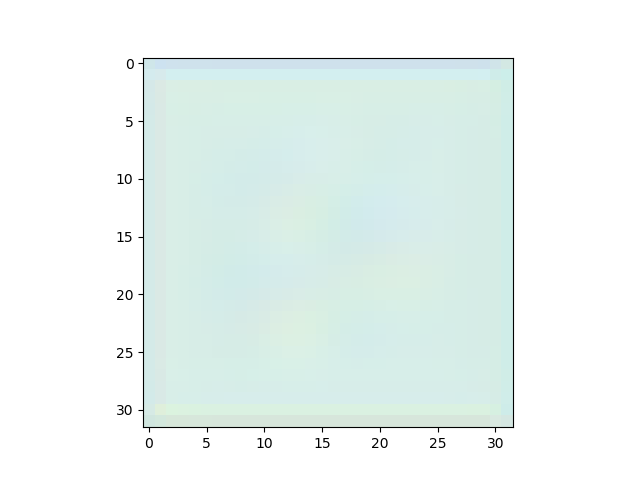
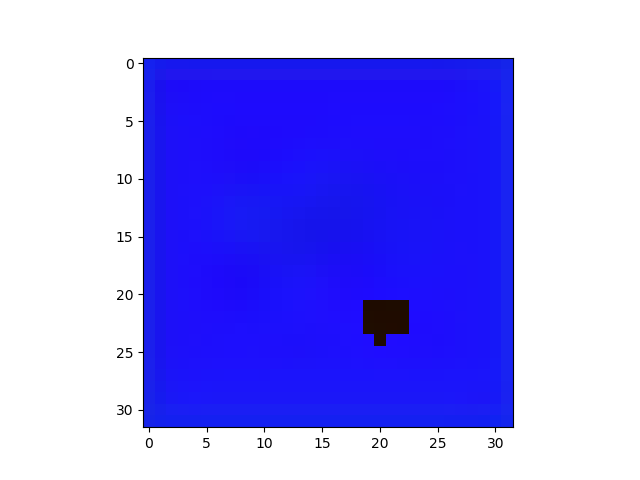
Starting to learn some 3-color blotches. Still very unstable

diff --git a/problem3/gan.py b/problem3/gan.py
@@ -19,17 +19,17 @@ class Discriminator(nn.Module):
     def __init__(self):
         super(Discriminator, self).__init__()
         # Several-layer MLP for now
-        self.fc1 = nn.Linear(3072, 128)
-        self.fc2 = nn.Linear(128, 32)
-        self.fc3 = nn.Linear(32, 16)
-        self.fc4 = nn.Linear(16, 1)
+        self.fc1 = nn.Linear(3072, 3)
+        #self.fc2 = nn.Linear(128, 32)
+        #self.fc3 = nn.Linear(32, 16)
+        self.fc4 = nn.Linear(3, 1)
         self.relu = nn.ReLU()
         self.sigmoid = nn.Sigmoid()
 
-        torch.nn.init.xavier_uniform_(self.fc1.weight)
-        torch.nn.init.xavier_uniform_(self.fc2.weight)
-        torch.nn.init.xavier_uniform_(self.fc3.weight)
-        torch.nn.init.xavier_uniform_(self.fc4.weight)
+        #torch.nn.init.xavier_uniform_(self.fc1.weight)
+        #torch.nn.init.xavier_uniform_(self.fc2.weight)
+        #torch.nn.init.xavier_uniform_(self.fc3.weight)
+        #torch.nn.init.xavier_uniform_(self.fc4.weight)
 
     def forward(self, inp):
         # Save for gradient penalty
@@ -39,10 +39,10 @@ class Discriminator(nn.Module):
         # Forward prop
         out = self.fc1(self.d_inp)
         out = self.relu(out)
-        out = self.fc2(out)
-        out = self.relu(out)
-        out = self.fc3(out)
-        out = self.relu(out)
+        #out = self.fc2(out)
+        #out = self.relu(out)
+        #out = self.fc3(out)
+        #out = self.relu(out)
         out = self.fc4(out)
         #out = self.sigmoid(out)
         return out
@@ -150,12 +150,12 @@ class GAN():
     def get_noise(self, batch_size):
         return Variable(torch.randn(batch_size, 100, device=self.device))
 
-    def train(self, train_loader, valid_loader, loss_fn=None, num_epochs=10, d_update=1):
+    def train(self, train_loader, valid_loader, loss_fn=None, num_epochs=30, d_update=3):
         '''
         Wrapper function for training on training set + evaluation on validation set.
         '''
-        d_optimizer = torch.optim.SGD(self.model.discriminator.parameters(), lr=1e-3)
-        g_optimizer = torch.optim.SGD(self.model.generator.parameters(), lr=1e-3)
+        d_optimizer = torch.optim.SGD(self.model.discriminator.parameters(), lr=1e-5)
+        g_optimizer = torch.optim.SGD(self.model.generator.parameters(), lr=1e-5)
 
         for epoch in range(num_epochs):
             d_train_loss, g_train_loss = self.train_epoch(train_loader,
@@ -259,7 +259,7 @@ class GAN():
         t = random.uniform(0, 1)
         x_hat = (t * fake) + ((1 - t) * real)
         d_x_hat = self.model.discriminator(x_hat)
-        print('d_x_hat:', d_x_hat)
+        #print('d_x_hat:', d_x_hat)
         grad = torch.autograd.grad(d_x_hat.mean(), self.model.discriminator.d_inp, retain_graph=True)
         return grad
 
@@ -277,6 +277,7 @@ class GAN():
         Does a training update to the discriminator.
         '''
         # Set gradients to 0
+        self.model.discriminator.train()
         d_optimizer.zero_grad()
 
         # Train on the real and fake data.
@@ -303,6 +304,7 @@ class GAN():
         Does a training update to the generator.
         '''
         # Set gradients to 0
+        self.model.generator.train()
         g_optimizer.zero_grad()
 
         # Generate fake data.

diff --git a/problem3/q3_1_gan.py b/problem3/q3_1_gan.py
@@ -10,7 +10,7 @@ from assignment.problem3.gan import GAN
 from assignment.problem3.dataloaders import get_loaders
 
 
-def wgan_gp(Dx, DGy, grad=None, lamb=10, objective='max'):
+def wgan_gp(Dx, DGy, grad=None, lamb=15, objective='max'):
     '''
     Maximize the WGAN objective with gradient penalty
     https://arxiv.org/pdf/1704.00028.pdf
@@ -19,15 +19,16 @@ def wgan_gp(Dx, DGy, grad=None, lamb=10, objective='max'):
         # We are coming from the discriminator.
         grad = grad[0]  # Take first item in mysterious tuple
         grad_penalty = lamb * (torch.norm(grad, 2) - 1).pow(2).mean()
-        print('norm:', torch.norm(grad, 2))
+        #print('norm:', torch.norm(grad, 2))
         #print('grad penalty:', grad_penalty)
-        #print('DGy:', DGy.mean())
+        #print('DGy:', DGy)
+        #print('DGy mean:', DGy.mean())
         #print('Dx:', Dx.mean())
         loss = DGy.mean() - Dx.mean() + grad_penalty
-        loss = -1 * loss
+        #loss = -1 * loss
     elif objective == 'min':
         # We are coming from the generator -- the other terms in the loss don't matter.
-        loss = DGy.mean()
+        loss = -1 * DGy.mean()
     return loss
 
 
